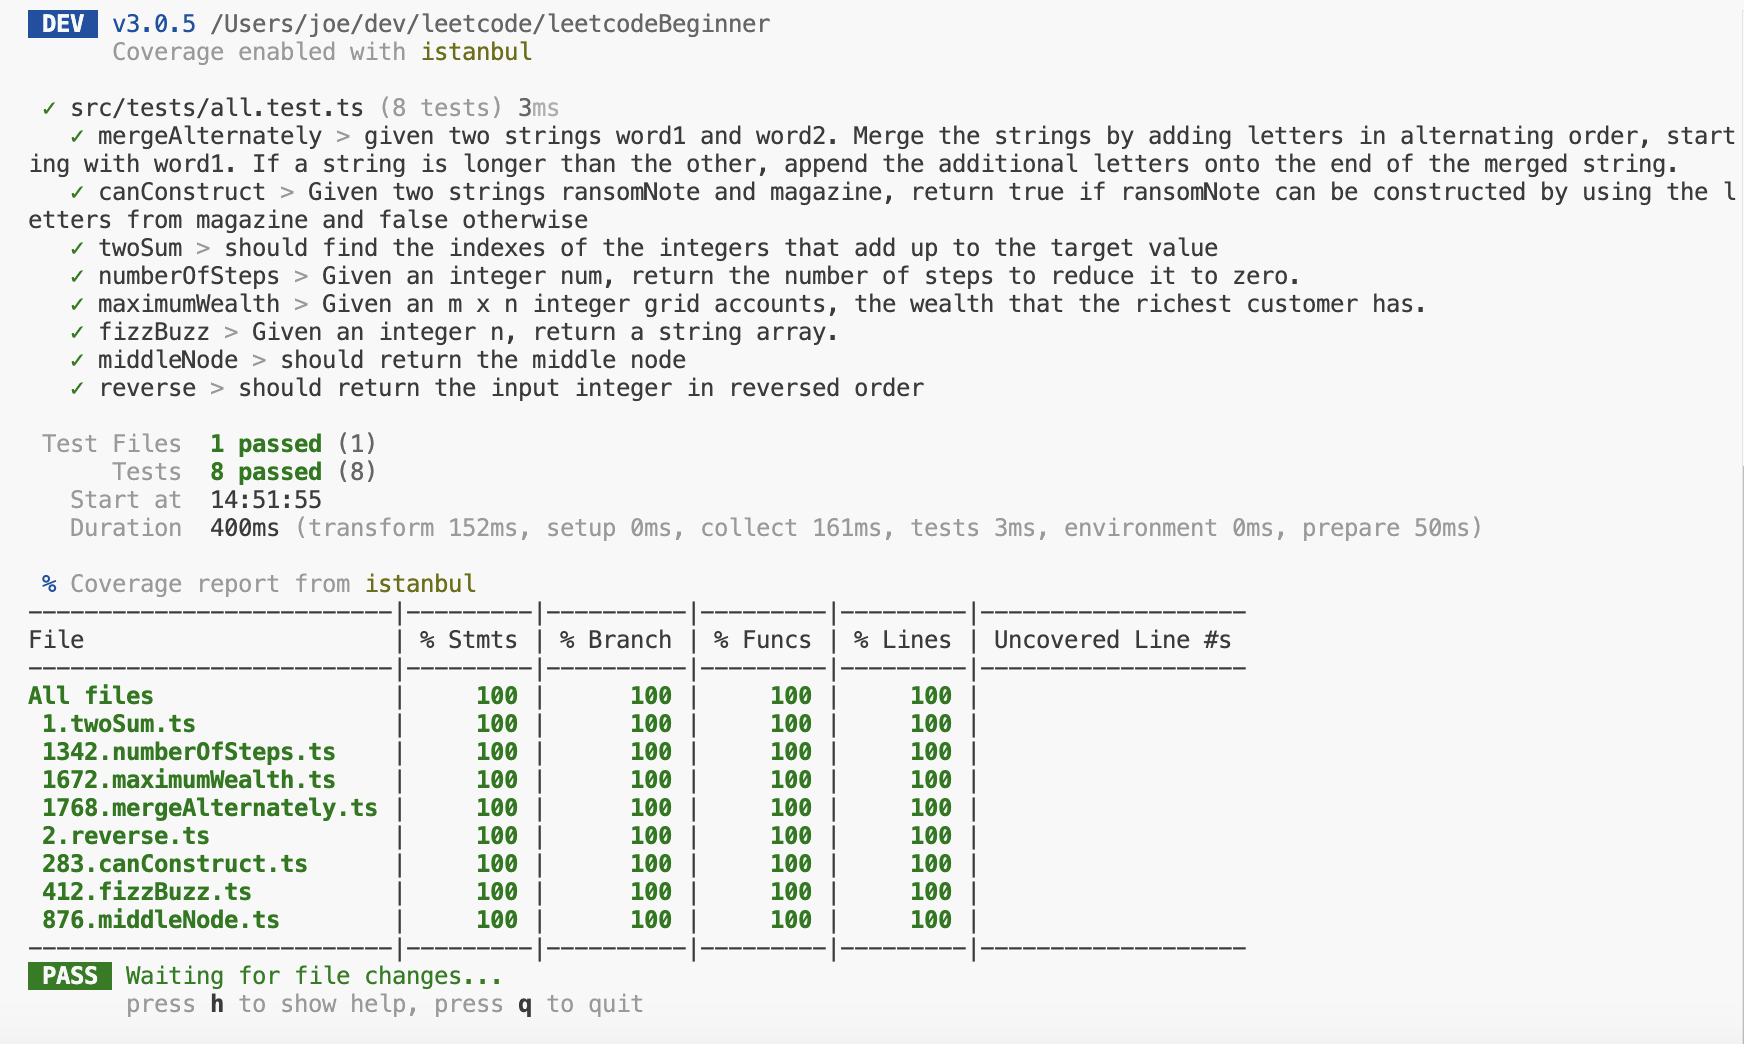
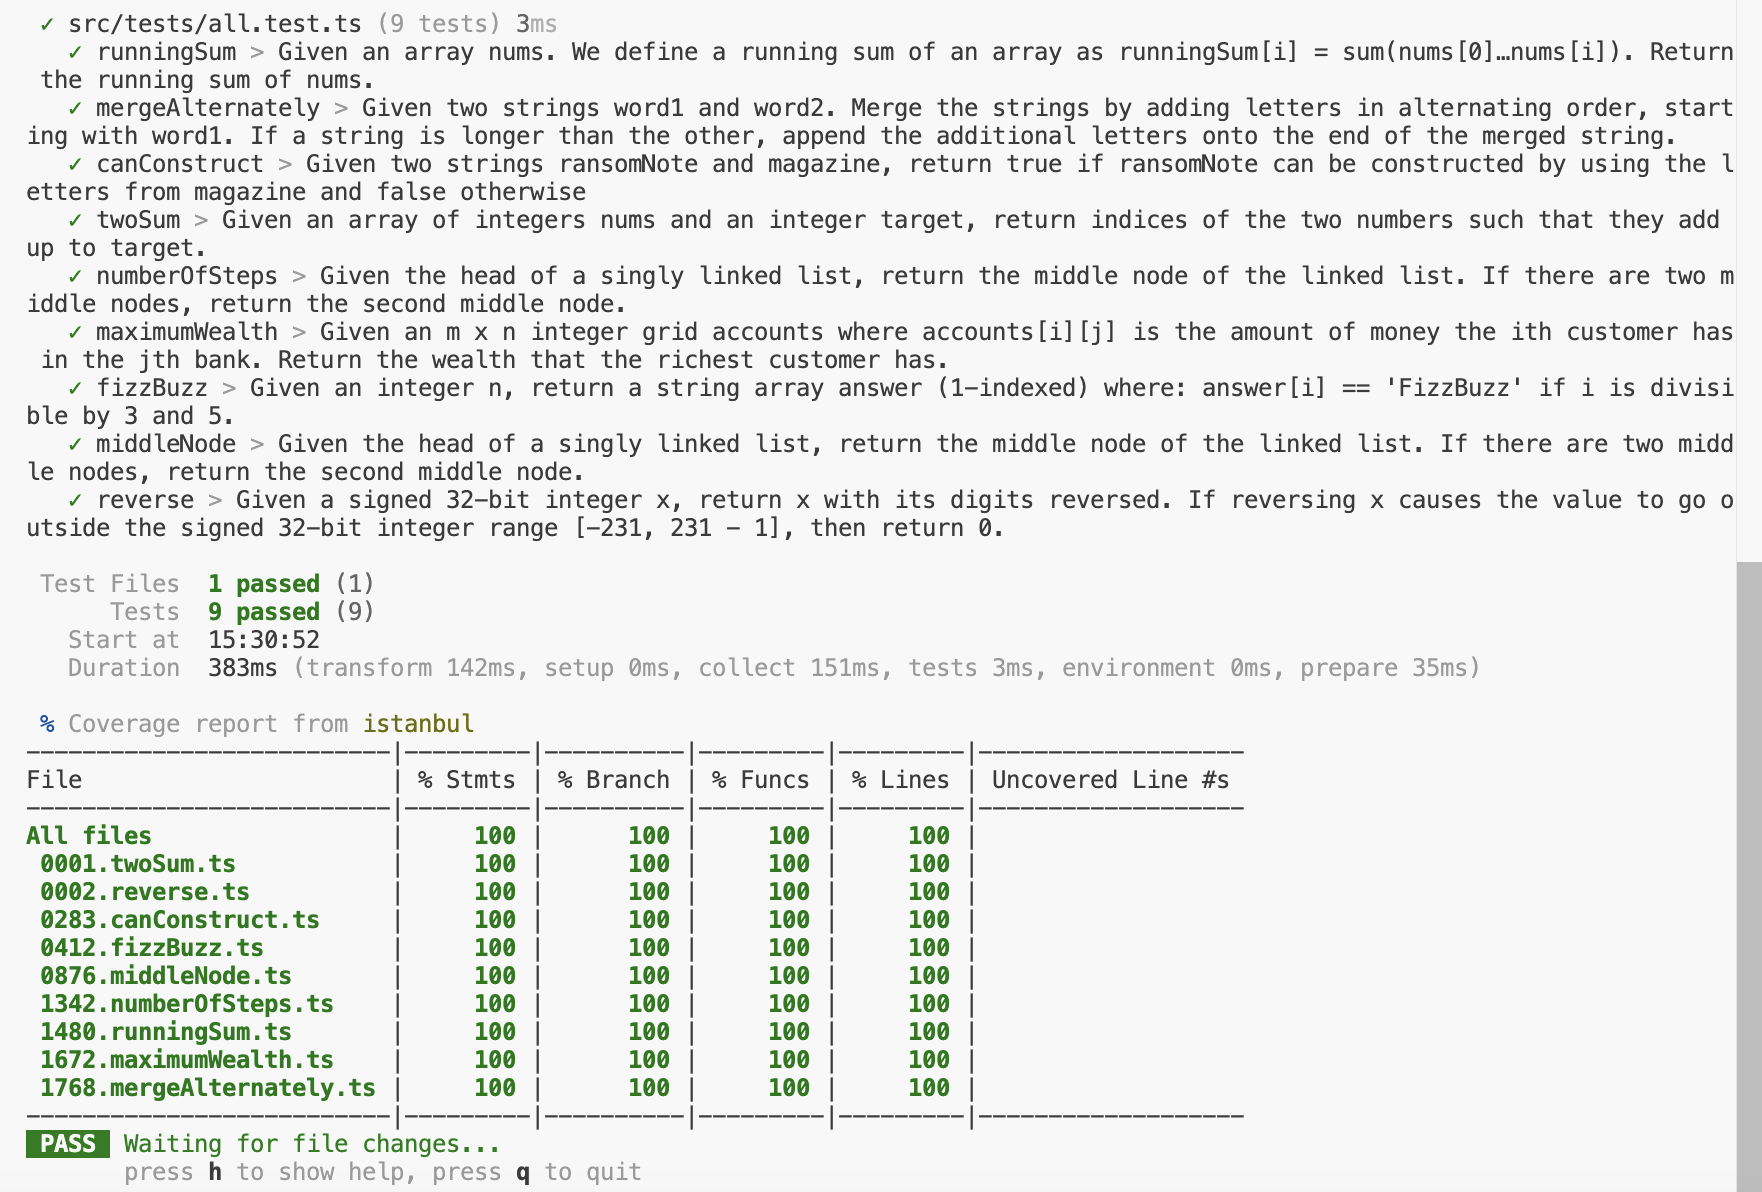
code clean up and update file structure

Changed region(s): [[0.0, 0.0, 1.0, 1.0], [0.9599, 0.4598, 1.0, 1.0], [0.8979, 0.2759, 0.9908, 0.3372]]

diff --git a/src/tests/all.test.ts b/src/tests/all.test.ts
@@ -1,15 +1,14 @@
 import { describe, it, expect } from "vitest";
 
-import { twoSum } from "../utils/1.twoSum";
-import { reverse } from "../utils/2.reverse";
+import { twoSum } from "../utils/0001.twoSum";
+import { reverse } from "../utils/0002.reverse";
+import { canConstruct } from "../utils/0283.canConstruct";
+import { fizzBuzz } from "../utils/0412.fizzBuzz";
+import { middleNode, createLinkedList } from "../utils/0876.middleNode";
 import { numberOfSteps } from "../utils/1342.numberOfSteps";
-import { maximumWealth } from "../utils/1672.maximumWealth";
-import { middleNode, createLinkedList } from "../utils/876.middleNode";
-import { fizzBuzz } from "../utils/412.fizzBuzz";
-import { canConstruct } from "../utils/283.canConstruct";
-import { mergeAlternately } from "../utils/1768.mergeAlternately";
-
 import { runningSum } from "../utils/1480.runningSum";
+import { maximumWealth } from "../utils/1672.maximumWealth";
+import { mergeAlternately } from "../utils/1768.mergeAlternately";
 
 describe("runningSum", () => {
   it("Given an array nums. We define a running sum of an array as runningSum[i] = sum(nums[0]…nums[i]). Return the running sum of nums.", () => {
@@ -58,22 +57,22 @@ describe("maximumWealth", () => {
 });
 
 describe("fizzBuzz", () => {
-  it("Given an integer n, return a string array.", () => {
-    const n = 15;
-    const output = ["1","2","Fizz","4","Buzz","Fizz","7","8","Fizz","Buzz","11","Fizz","13","14","FizzBuzz"];
-    expect(fizzBuzz(n)).toEqual(output);
+  it("Given an integer n, return a string array answer (1-indexed) where: answer[i] == 'FizzBuzz' if i is divisible by 3 and 5.", () => {
+    expect(fizzBuzz(3)).toEqual(["1","2","Fizz"]);
+    expect(fizzBuzz(5)).toEqual(["1","2","Fizz","4","Buzz"]);
+    expect(fizzBuzz(15)).toEqual(["1","2","Fizz","4","Buzz","Fizz","7","8","Fizz","Buzz","11","Fizz","13","14","FizzBuzz"]);
   });
 });
 
 describe("middleNode", () => {
-  it("should return the middle node", () => {
+  it("Given the head of a singly linked list, return the middle node of the linked list. If there are two middle nodes, return the second middle node.", () => {
     expect(middleNode(createLinkedList([1,2,3,4,5,6]))).toStrictEqual(createLinkedList([4,5,6]));
     expect(middleNode(createLinkedList([1,2,3,4,5]))).toStrictEqual(createLinkedList([3,4,5]));
   });
 });
 
 describe("reverse", () => {
-  it("should return the input integer in reversed order", () => {
+  it("Given a signed 32-bit integer x, return x with its digits reversed. If reversing x causes the value to go outside the signed 32-bit integer range [-231, 231 - 1], then return 0.", () => {
     expect(reverse(123)).toStrictEqual(321);
     expect(reverse(2147483648)).toStrictEqual(0);
     expect(reverse(-2147483648)).toStrictEqual(0);
